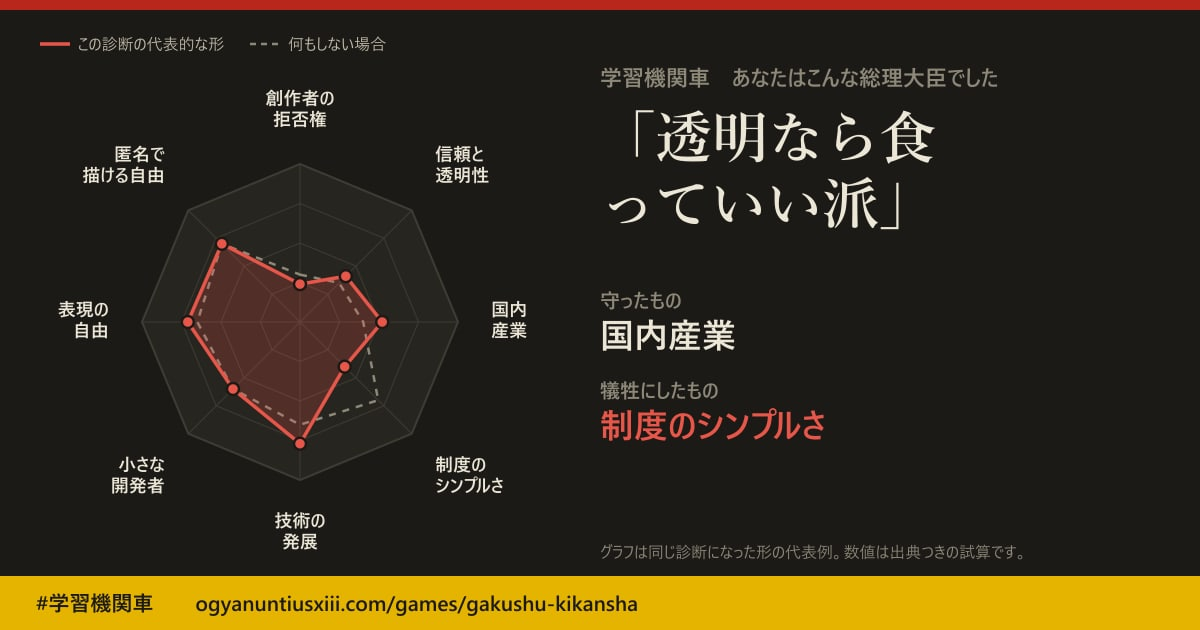
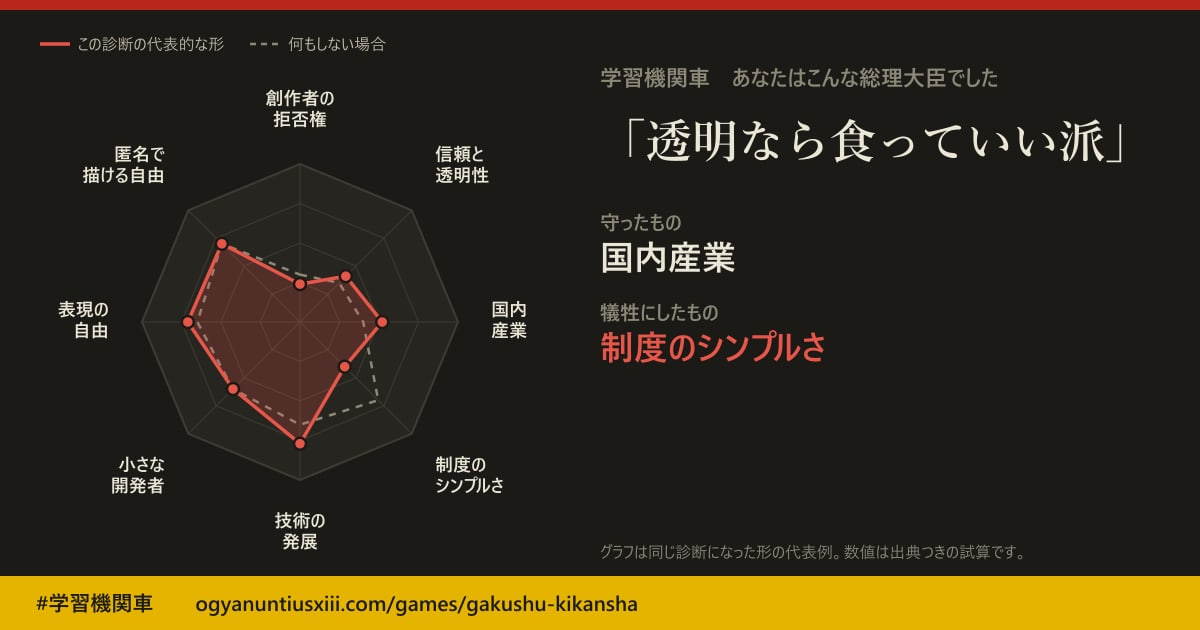
学習機関車: 診断名を語の途中で折らない（カード・コピー用画像・結果画面）
「全員から許可を取れ派」が「全員から許／可を取れ派」のように折れていた。
名前は「。」でだけ折り、折れない名前は1行のまま文字を小さくして収める。
カード129枚を描き直して og:image を ?v=3 に。JSを変えたので game-8.js を game-9.js に。

Changed region(s): [[0.4933, 0.181, 0.925, 0.573], [0.4933, 0.6032, 0.7092, 0.7238]]

diff --git a/public/games/gakushu-kikansha/game-9.js b/public/games/gakushu-kikansha/game-9.js
@@ -259,7 +259,11 @@
     radarCanvas(g, r, 300, 312, 150);
     const x0 = 600; g.textAlign = 'left'; g.textBaseline = 'alphabetic';
     g.fillStyle = '#8e8878'; g.font = '700 22px "BIZ UDPGothic", sans-serif'; g.fillText('学習機関車　あなたはこんな総理大臣でした', x0, 84);
-    g.fillStyle = '#ece6d6'; let y = wrapText(g, ar.name, x0, 150, 560, '900 {s}px "Zen Old Mincho", serif', 50, 1.12, 2) + 12;
+    // 名前は「。」でだけ折り、1行に収まらなければ文字を小さくする（語の途中で折らない）
+    const ni = ar.name.indexOf('。'), names = [...ar.name].length > 11 && ni > 0 && ni < ar.name.length - 1 ? [ar.name.slice(0, ni + 1), ar.name.slice(ni + 1)] : [ar.name];
+    g.fillStyle = '#ece6d6'; let ns = 50; g.font = '900 ' + ns + 'px "Zen Old Mincho", serif';
+    while (ns > 26 && Math.max(...names.map(l => g.measureText(l).width)) > 560) { ns -= 2; g.font = '900 ' + ns + 'px "Zen Old Mincho", serif'; }
+    let y = 150; names.forEach(l => { g.fillText(l, x0, y); y += Math.round(ns * 1.18); }); y += 12 - Math.round(ns * 1.18) + Math.round(ns * 1.12);
     const row = (label, value, color) => { g.fillStyle = '#8e8878'; g.font = '700 19px "BIZ UDPGothic", sans-serif'; g.fillText(label, x0, y); y += 36; g.fillStyle = color; y = wrapText(g, value, x0, y, 560, '700 {s}px "BIZ UDPGothic", sans-serif', 30, 1.1, 1) + 16; };
     row('守ったもの', r.top.name, '#ece6d6'); row('犠牲にしたもの', r.bottom.name, '#e8564a');
     g.fillStyle = '#8e8878'; g.font = '700 19px "BIZ UDPGothic", sans-serif'; g.fillText('最後まで解決できなかったもの', x0, y); y += 32;

diff --git a/public/games/gakushu-kikansha/index.html b/public/games/gakushu-kikansha/index.html
@@ -134,7 +134,7 @@
   .sw2 { display: inline-block; width: 22px; border-top: 2px dashed var(--muted); vertical-align: middle; margin-right: 6px; }
   .verdict { padding: 16px 18px 18px; border-left: 6px solid var(--red); }
   .eyebrow { margin: 0 0 6px; font-size: 12px; letter-spacing: .2em; color: var(--muted); }
-  .verdict h2 { margin: 0; font-size: clamp(20px, 2.6vw, 26px); line-height: 1.35; font-weight: 900; }
+  .verdict h2 { margin: 0; font-size: clamp(20px, 2.6vw, 26px); line-height: 1.35; font-weight: 900; word-break: keep-all; overflow-wrap: anywhere; }
   .verdict p { margin: 8px 0 0; }
   #reasons { color: var(--ink-2); font-size: 14px; }
   h2.sec { font-size: 16px; letter-spacing: .16em; padding: 8px 0; border-bottom: 2px solid var(--ink); margin: 30px 0 6px; display: flex; justify-content: space-between; align-items: baseline; }
@@ -303,7 +303,7 @@
 <script src="model-6.js"></script>
 <script src="questions-6.js"></script>
 <script src="scene-6.js"></script>
-<script src="game-8.js"></script>
+<script src="game-9.js"></script>
 <script>(function(){
  if(!location.hostname.endsWith("ogyanuntiusxiii.com")) return;
  var K="ogyanun.viewed",d=new Date(Date.now()+32400000).toISOString().slice(0,10),s=null;

diff --git a/functions/games/gakushu-kikansha/share/[k].js b/functions/games/gakushu-kikansha/share/[k].js
@@ -8,7 +8,7 @@ export async function onRequestGet({request, params}) {
  const key = String(params.k || '');
  const c = /^[a-z]+-[a-z]+-[a-z]+$/.test(key) && Object.prototype.hasOwnProperty.call(CARDS, key) ? CARDS[key] : null;
  if (!c) return Response.redirect(game, 302);
- const image = `${url.origin}/games/gakushu-kikansha/assets/share/${key}.jpg?v=2`;  // カードを描き直したら v を上げる（Xが古い画像を使い続けないように）
+ const image = `${url.origin}/games/gakushu-kikansha/assets/share/${key}.jpg?v=3`;  // カードを描き直したら v を上げる（Xが古い画像を使い続けないように）
  const title = `学習機関車 — ${c.a}の総理大臣`;
  const description = `守ったもの：${c.top}。犠牲にしたもの：${c.bottom}。人口100万人の国で、生成AIと創作の政策を30秒ずつ決める3Dトロッコ問題。`;
  const alt = `8角グラフと診断。${c.a}の総理大臣。守ったもの${c.top}、犠牲にしたもの${c.bottom}。グラフは同じ診断になった形の代表例。`;
